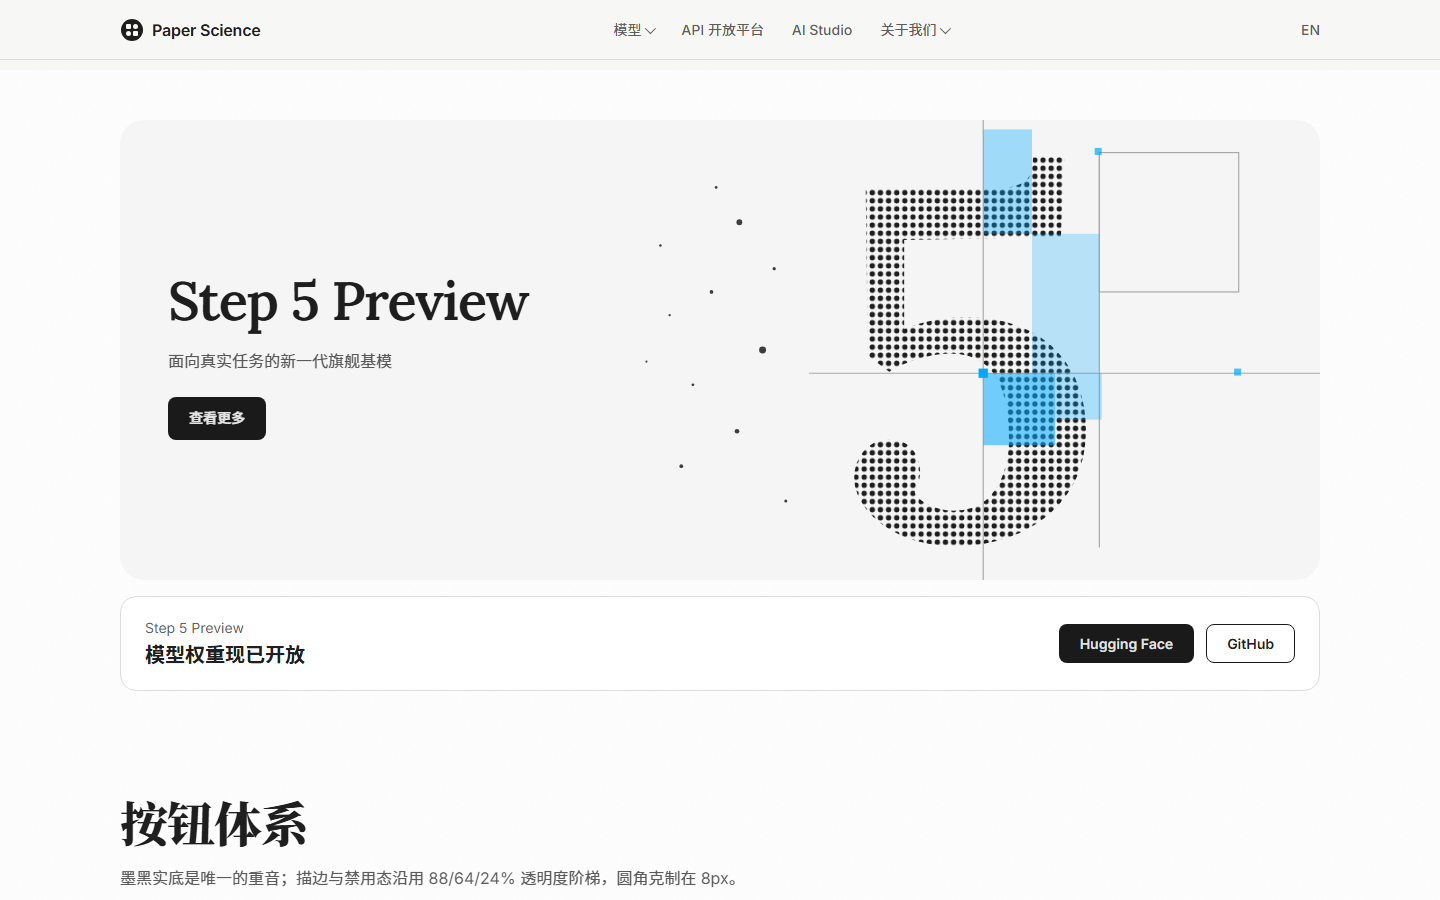
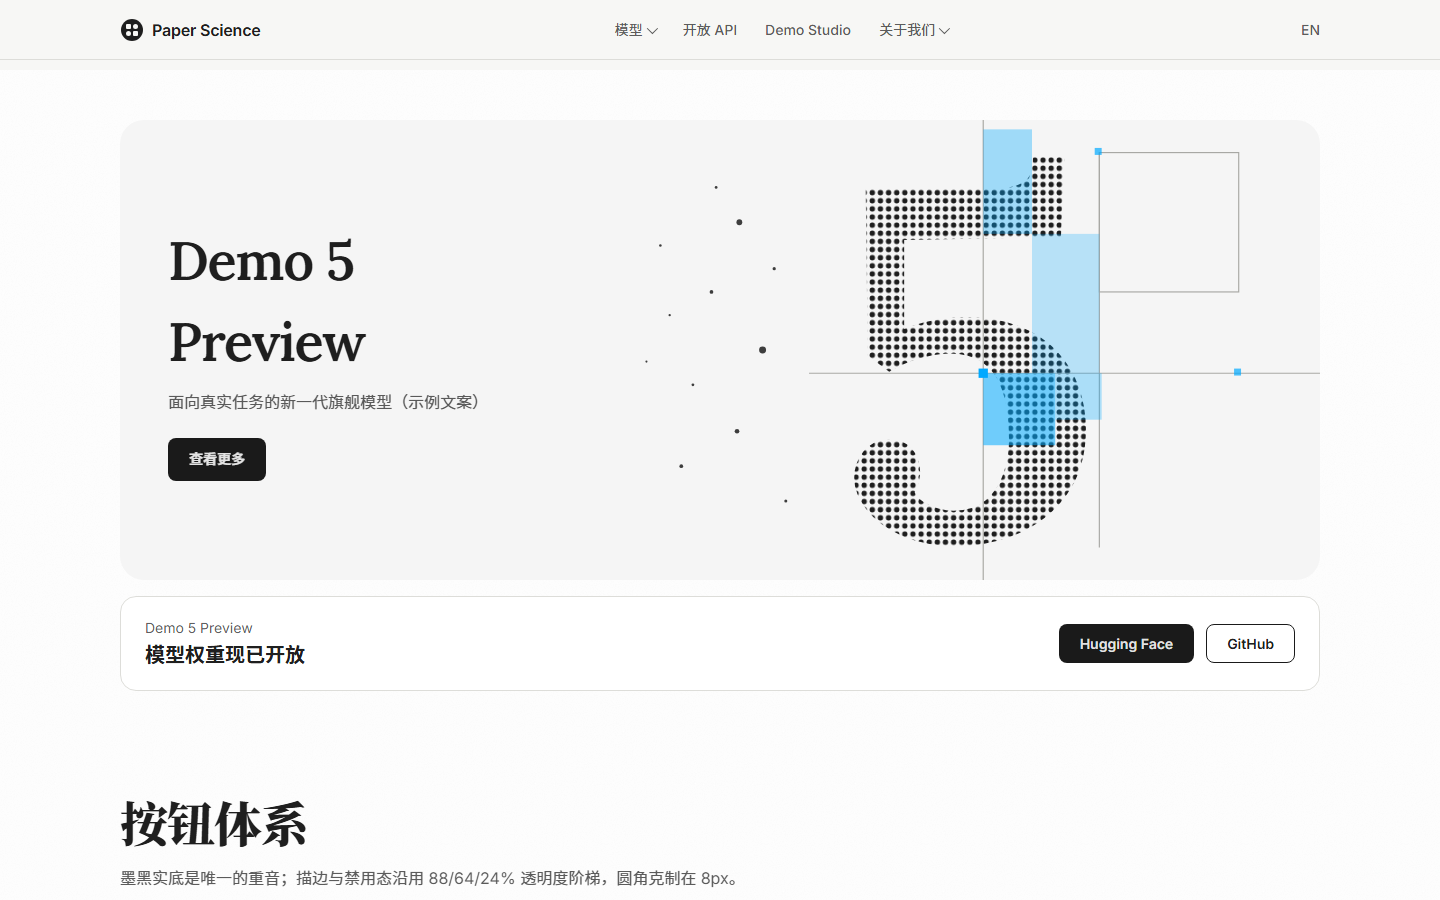
docs: 更新Paper-Science-Editorial模板合规内容与测试数据替换
更新了模板文档与代码中的源站真实产品名、备案号等敏感信息，统一替换为Demo前缀测试数据
补充了合规说明文档，明确要求所有产出不得包含源站真实资质与品牌信息
同时更新了截图资源，确保与合规要求一致

diff --git a/templates/Paper-Science-Editorial/Paper-Science-Editorial.html b/templates/Paper-Science-Editorial/Paper-Science-Editorial.html
@@ -383,8 +383,8 @@ footer::after{bottom:0;left:0;-webkit-mask-image:radial-gradient(at 0% 100%,#000
     </a>
     <div class="nav-links">
       <a href="#flagship">模型 <i class="caret"></i></a>
-      <a href="#cards">API 开放平台</a>
-      <a href="#forms">AI Studio</a>
+      <a href="#cards">开放 API</a>
+      <a href="#forms">Demo Studio</a>
       <a href="#type">关于我们 <i class="caret"></i></a>
     </div>
     <a class="nav-lang" href="#">EN</a>
@@ -520,13 +520,13 @@ footer::after{bottom:0;left:0;-webkit-mask-image:radial-gradient(at 0% 100%,#000
       <div class="marquee-frame">
         <i class="handle tl"></i><i class="handle tr"></i><i class="handle bl"></i><i class="handle br"></i>
       </div>
-      <div class="note n1"><span class="en">From Human Insight</span><span class="en">To Natural Laws</span><span class="zh">从人类洞见，到自然规律</span></div>
-      <div class="note n2"><span class="en">Perception Extended</span><span class="en">Beyond Visible Limits</span><span class="zh">突破感知边界，看见更广世界</span></div>
-      <div class="note n3"><span class="en">Connections Spark</span><span class="en">Worlds Of Possibility</span><span class="zh">连接迸发，万千可能</span></div>
+      <div class="note n1"><span class="en">Ink Records</span><span class="en">What Eyes Miss</span><span class="zh">墨迹记下目光所漏</span></div>
+      <div class="note n2"><span class="en">Signals Cross</span><span class="en">The Paper Field</span><span class="zh">信号穿过纸面田野</span></div>
+      <div class="note n3"><span class="en">Margins Hold</span><span class="en">The Quiet Proof</span><span class="zh">页边藏着安静的证明</span></div>
     </div>
-    <h1 class="hero-title">Scale up<br>for <span class="blue">everyone</span></h1>
-    <p class="hero-sub">智能阶跃，十倍每个人的可能</p>
-    <div class="note hero-aside"><span class="en">Order Emerges</span><span class="en">From Complexity</span><span class="zh">秩序，涌现于混沌之中</span></div>
+    <h1 class="hero-title">From paper<br>to <span class="blue">possibility</span></h1>
+    <p class="hero-sub">纸面科学，让秩序涌现（示例文案）</p>
+    <div class="note hero-aside"><span class="en">Order From</span><span class="en">The Piled Pages</span><span class="zh">秩序，来自叠起的纸页</span></div>
     </div>
   </div>
 </header>
@@ -535,8 +535,8 @@ footer::after{bottom:0;left:0;-webkit-mask-image:radial-gradient(at 0% 100%,#000
   <div class="wrap">
     <div class="feature-card reveal">
       <div class="feature-copy">
-        <h2>Step 5 Preview</h2>
-        <p>面向真实任务的新一代旗舰基模</p>
+        <h2>Demo 5 Preview</h2>
+        <p>面向真实任务的新一代旗舰模型（示例文案）</p>
         <button class="btn btn-primary">查看更多</button>
       </div>
       <div class="feature-art" aria-hidden="true">
@@ -575,7 +575,7 @@ footer::after{bottom:0;left:0;-webkit-mask-image:radial-gradient(at 0% 100%,#000
     </div>
     <div class="weights-bar reveal">
       <div>
-        <div class="label">Step 5 Preview</div>
+        <div class="label">Demo 5 Preview</div>
         <div class="statement">模型权重现已开放</div>
       </div>
       <div class="btn-row">
@@ -618,14 +618,14 @@ footer::after{bottom:0;left:0;-webkit-mask-image:radial-gradient(at 0% 100%,#000
 <section id="cards">
   <div class="wrap">
     <div class="sec-head reveal">
-      <h2>探索智能的更多可能</h2>
-      <p>从前沿模型，到语音与图像，我们持续推进不同方向的模型能力。</p>
+      <h2>探索组件的更多可能</h2>
+      <p>从按钮到卡片，本库持续补充不同方向的组件示例。</p>
     </div>
     <div class="demo-grid">
       <article class="model-card reveal">
         <div>
-          <div class="display">Step 3.7 Flash</div>
-          <p>高速推理与工具调用，为真实工作流而生。</p>
+          <div class="display">Demo 3.7 Flash</div>
+          <p>高速推理与工具调用的示例模型描述。</p>
         </div>
         <div class="tag-row">
           <span class="badge badge-black">Flash</span>
@@ -635,8 +635,8 @@ footer::after{bottom:0;left:0;-webkit-mask-image:radial-gradient(at 0% 100%,#000
       </article>
       <article class="model-card alt reveal">
         <div>
-          <div class="display">StepAudio 3</div>
-          <p>端到端语音交互，理解语气与停顿。</p>
+          <div class="display">DemoAudio 3</div>
+          <p>端到端语音交互的示例模型描述。</p>
         </div>
         <div class="sound-bars" aria-hidden="true"><span></span><span></span><span></span><span></span><span></span></div>
       </article>
@@ -680,7 +680,7 @@ footer::after{bottom:0;left:0;-webkit-mask-image:radial-gradient(at 0% 100%,#000
   -H <span class="c-str">"Content-Type: application/json"</span> \
   -H <span class="c-str">"Authorization: Bearer $API_KEY"</span> \
   -d <span class="c-str">'{
-    <span class="c-par">"model"</span>: <span class="c-str">"step-3.7-flash"</span>,
+    <span class="c-par">"model"</span>: <span class="c-str">"demo-3.7-flash"</span>,
     <span class="c-par">"messages"</span>: [
       { <span class="c-par">"role"</span>: <span class="c-str">"user"</span>,
         <span class="c-par">"content"</span>: <span class="c-str">"你好"</span> }
@@ -703,11 +703,11 @@ footer::after{bottom:0;left:0;-webkit-mask-image:radial-gradient(at 0% 100%,#000
         <span class="panel-label">输入框 · 默认 / 聚焦 / 禁用</span>
         <div>
           <label class="field-label" for="in1">模型名称</label>
-          <input class="input" id="in1" placeholder="step-3.7-flash">
+          <input class="input" id="in1" placeholder="demo-3.7-flash">
         </div>
         <div>
           <label class="field-label" for="in2">聚焦态</label>
-          <input class="input is-focus" id="in2" value="step-5-preview">
+          <input class="input is-focus" id="in2" value="demo-5-preview">
         </div>
         <div>
           <label class="field-label" for="in3">禁用态</label>
@@ -728,8 +728,8 @@ footer::after{bottom:0;left:0;-webkit-mask-image:radial-gradient(at 0% 100%,#000
       </div>
       <div class="panel white reveal">
         <span class="panel-label">双语旁注 · 英文行删除线</span>
-        <div class="note"><span class="en">Perception Extended</span><span class="en">Beyond Visible Limits</span><span class="zh">突破感知边界，看见更广世界</span></div>
-        <div class="note"><span class="en">Order Emerges</span><span class="en">From Complexity</span><span class="zh">秩序，涌现于混沌之中</span></div>
+        <div class="note"><span class="en">Signals Cross</span><span class="en">The Paper Field</span><span class="zh">信号穿过纸面田野</span></div>
+        <div class="note"><span class="en">Order From</span><span class="en">The Piled Pages</span><span class="zh">秩序，来自叠起的纸页</span></div>
       </div>
     </div>
   </div>
@@ -742,10 +742,10 @@ footer::after{bottom:0;left:0;-webkit-mask-image:radial-gradient(at 0% 100%,#000
       <p>衬线承担展示与旁注，无衬线承担界面，等宽承担代码；负字距统一约 -0.02em。</p>
     </div>
     <div class="panel white reveal">
-      <div class="type-row"><span class="spec">56/66 · 700</span><span class="sample-serif" style="font-size:56px;line-height:66px;font-weight:700;letter-spacing:-1.12px">Scale up for everyone</span></div>
-      <div class="type-row"><span class="spec">48/67 · 600</span><span class="sample-serif" style="font-size:48px;line-height:67px;font-weight:600;letter-spacing:-.96px">探索智能的更多可能</span></div>
+      <div class="type-row"><span class="spec">56/66 · 700</span><span class="sample-serif" style="font-size:56px;line-height:66px;font-weight:700;letter-spacing:-1.12px">From paper to possibility</span></div>
+      <div class="type-row"><span class="spec">48/67 · 600</span><span class="sample-serif" style="font-size:48px;line-height:67px;font-weight:600;letter-spacing:-.96px">探索组件的更多可能</span></div>
       <div class="type-row"><span class="spec">24/30 · 600</span><span style="font-size:24px;line-height:30px;font-weight:600">模型权重现已开放</span></div>
-      <div class="type-row"><span class="spec">16/24 · 400</span><span style="font-size:16px">从前沿模型，到语音与图像，我们持续推进不同方向的模型能力。</span></div>
+      <div class="type-row"><span class="spec">16/24 · 400</span><span style="font-size:16px">从按钮到卡片，本库持续补充不同方向的组件示例。</span></div>
       <div class="type-row"><span class="spec">13/17 · mono</span><span style="font-family:var(--font-mono);font-size:13px">curl -H "Authorization: Bearer $API_KEY"</span></div>
     </div>
   </div>
@@ -753,8 +753,8 @@ footer::after{bottom:0;left:0;-webkit-mask-image:radial-gradient(at 0% 100%,#000
 
 <div class="marquee-band" aria-hidden="true">
   <div class="marquee-track">
-    <span>Step 5 Preview</span><span>Step 3.7 Flash</span><span>Step 3.5 Flash</span><span>StepAudio 3</span><span>Realtime</span><span>StepAudio 3 TTS</span><span>StepAudio 3 Gen</span><span>StepAudio 3 Music</span><span>StepAudio 3 ASR</span>
-    <span>Step 5 Preview</span><span>Step 3.7 Flash</span><span>Step 3.5 Flash</span><span>StepAudio 3</span><span>Realtime</span><span>StepAudio 3 TTS</span><span>StepAudio 3 Gen</span><span>StepAudio 3 Music</span><span>StepAudio 3 ASR</span>
+    <span>Demo 5 Preview</span><span>Demo 3.7 Flash</span><span>Demo 3.5 Flash</span><span>DemoAudio 3</span><span>Realtime</span><span>DemoAudio 3 TTS</span><span>DemoAudio 3 Gen</span><span>DemoAudio 3 Music</span><span>DemoAudio 3 ASR</span>
+    <span>Demo 5 Preview</span><span>Demo 3.7 Flash</span><span>Demo 3.5 Flash</span><span>DemoAudio 3</span><span>Realtime</span><span>DemoAudio 3 TTS</span><span>DemoAudio 3 Gen</span><span>DemoAudio 3 Music</span><span>DemoAudio 3 ASR</span>
   </div>
 </div>
 
@@ -766,25 +766,25 @@ footer::after{bottom:0;left:0;-webkit-mask-image:radial-gradient(at 0% 100%,#000
           <svg width="24" height="24" viewBox="0 0 24 24" aria-hidden="true"><circle cx="12" cy="12" r="11" fill="#fff"/><g fill="#000"><rect x="6" y="6" width="5" height="5" rx="1"/><rect x="13" y="6" width="5" height="5" rx="2.5"/><rect x="6" y="13" width="5" height="5" rx="2.5"/><rect x="13" y="13" width="5" height="5" rx="1"/></g></svg>
           Paper Science
         </a>
-        <p>Scale up for everyone</p>
+        <p>From paper to possibility</p>
         <button class="btn btn-on-dark btn-sm">平台服务支持</button>
       </div>
       <nav class="foot-nav" aria-label="页脚导航">
         <div>
           <h4>模型</h4>
           <div class="group-label">旗舰基模</div>
-          <a href="#flagship">Step 5 Preview</a>
-          <a href="#cards">Step 3.7 Flash</a>
-          <a href="#cards">Step 3.5 Flash</a>
+          <a href="#flagship">Demo 5 Preview</a>
+          <a href="#cards">Demo 3.7 Flash</a>
+          <a href="#cards">Demo 3.5 Flash</a>
           <div class="group-label">语音交互</div>
-          <a href="#cards">StepAudio 3</a>
+          <a href="#cards">DemoAudio 3</a>
           <a href="#cards">Realtime</a>
         </div>
         <div>
           <h4>产品</h4>
-          <a href="#cards">Step Code</a>
-          <a href="#forms">AI Studio</a>
-          <a href="#flagship">API 开放平台</a>
+          <a href="#cards">Demo Code</a>
+          <a href="#forms">Demo Studio</a>
+          <a href="#flagship">开放 API</a>
         </div>
         <div>
           <h4>开发者资源</h4>
@@ -801,7 +801,7 @@ footer::after{bottom:0;left:0;-webkit-mask-image:radial-gradient(at 0% 100%,#000
     </div>
     <div class="foot-legal">
       <span>模型名称：纸面科学大模型</span>
-      <span>沪公网安备 31010402333581 号</span>
+      <span>测试备案号 00000000000000</span>
       <span>Copyright © 2026 Paper Science Editorial</span>
       <button class="theme-toggle" id="themeToggle" type="button">切换深色模式</button>
     </div>

diff --git a/.qoder/skills/web2template/SKILL.md b/.qoder/skills/web2template/SKILL.md
@@ -168,6 +168,7 @@ python "{SKILL_DIR}/scripts/extract_and_capture.py" --file "./path/to/template.h
    - 组件样式：按实际页面中出现的组件类型描述
    - 大胆要素：提炼 3-8 个使此设计独特的签名技巧
    - 所有 CSS 代码示例必须可执行
+5. **合规替换（强制）**：不得把源站的备案号/ICP/公网安备等资质编号、真实产品与模型名称、品牌标语与原文营销文案复刻进产出文档；统一替换为测试数据或重写——备案类编号用 `测试备案号 00000000000000`，产品/模型名用 `Demo` 前缀演示名（如 `Demo 5 Preview`），标语与旁注自行重写为原创示例文案，并在文档中注明"示例文案与名称均为测试数据"
 
 **输出文件**：
 
@@ -207,6 +208,7 @@ templates/{Style-Name}/
 4. **图片资源**：一律使用 `https://trae-api-cn.mchost.guru/api/ide/v1/text_to_image?prompt={prompt}&image_size={size}` 链接（URL-encode prompt），禁止占位图。**关键陷阱**：该接口对新 prompt 首次请求返回"生成中"占位图（约 176KB 正方形 JPEG），真实图片需等待异步生成完成。优先复用项目中已就绪的 URL（grep `text_to_image` 查 index.html 与既有模板）；确需新图时，用 JPEG SOF 标记解析宽高（横向比例 = 就绪）轮询确认，未就绪则回退到已就绪图片并以不同 `background-position` 裁切区分多处使用
 5. **动效克制**：入场动画用 IntersectionObserver 触发（2-8px 位移级别），必须实现 `prefers-reduced-motion` 降级
 6. **响应式**：至少覆盖 1024px / 768px 两档断点，规则从风格文档"响应式策略"章节落地
+7. **合规替换**：组件库全部文案（导航、Hero、卡片、跑马灯、代码示例中的模型字符串、页脚法律信息行等）一律使用测试数据：不得出现源站备案号/公网安备编号、真实产品与模型名称、品牌标语；页脚资质行统一写 `测试备案号 00000000000000`
 
 ---
 
@@ -233,7 +235,7 @@ templates/{Style-Name}/
 2. **必须收集 JS 错误**：`page.on("pageerror", ...)` 在 `goto` 之前注册，结束时打印——空数组才算通过
 3. 强制 `.reveal` 元素可见后截图三视图，保存为 `assets/screenshots/{Style-Name}-01/02/03.png`（阶段 7 注册的路径依赖此产物）
 4. **生成 WebP 变体**：每张 PNG 同名转换为 `assets/screenshots/webp/{同名}.webp`（1440×900 RGB，quality≈78）。index.html 画廊优先加载 WebP；缺变体会退化画质加载甚至裂图
-5. 用 Read 工具逐张检查截图：图片是否为占位图、组件是否溢出/重叠、文字对比度、深色模式（若实现）
+5. 用 Read 工具逐张检查截图：图片是否为占位图、组件是否溢出/重叠、文字对比度、深色模式（若实现），并合规复查：截图与 HTML 中不得残留源站备案号、真实产品/模型名、品牌标语（用 grep 复核关键词零命中）
 6. 发现问题 → 修复 HTML 后重跑脚本，直至截图全部合格
 
 **清理**（验证通过后执行）：
@@ -327,3 +329,4 @@ Agent 执行：
 - 若页面需要登录或有反爬机制，脚本可能无法正常获取内容，应提示用户改用本地 HTML 文件。
 - **Windows 环境**：`curl` 是 PowerShell 的 `Invoke-WebRequest` 别名，参数不兼容，须显式使用 `curl.exe`；含 `&`、引号嵌套的 URL 或长脚本不要内联 `python -c`，写成临时 `.py` 文件再执行。
 - 阶段 6-8 产出的模板必须与项目既有模板（`templates/` 下 30+ 套）保持同样的工程约定：单文件、零构建、`:root` Token、`{Style-Name}.html` + `{Style-Name}.md` 成对出现。
+- **合规底线**：任何产出（风格文档、组件库、画廊截图、注册描述）不得包含源站 ICP/公网安备编号、真实产品与模型名称、品牌 slogan；统一换测试数据（备案 `测试备案号 00000000000000`、名称 `Demo` 前缀、文案重写）。来源 URL 仅作为风格文档的来源注记保留，不作为文案复刻。

diff --git a/.trae/skills/web2template/SKILL.md b/.trae/skills/web2template/SKILL.md
@@ -168,6 +168,7 @@ python "{SKILL_DIR}/scripts/extract_and_capture.py" --file "./path/to/template.h
    - 组件样式：按实际页面中出现的组件类型描述
    - 大胆要素：提炼 3-8 个使此设计独特的签名技巧
    - 所有 CSS 代码示例必须可执行
+5. **合规替换（强制）**：不得把源站的备案号/ICP/公网安备等资质编号、真实产品与模型名称、品牌标语与原文营销文案复刻进产出文档；统一替换为测试数据或重写——备案类编号用 `测试备案号 00000000000000`，产品/模型名用 `Demo` 前缀演示名（如 `Demo 5 Preview`），标语与旁注自行重写为原创示例文案，并在文档中注明"示例文案与名称均为测试数据"
 
 **输出文件**：
 
@@ -207,6 +208,7 @@ templates/{Style-Name}/
 4. **图片资源**：一律使用 `https://trae-api-cn.mchost.guru/api/ide/v1/text_to_image?prompt={prompt}&image_size={size}` 链接（URL-encode prompt），禁止占位图。**关键陷阱**：该接口对新 prompt 首次请求返回"生成中"占位图（约 176KB 正方形 JPEG），真实图片需等待异步生成完成。优先复用项目中已就绪的 URL（grep `text_to_image` 查 index.html 与既有模板）；确需新图时，用 JPEG SOF 标记解析宽高（横向比例 = 就绪）轮询确认，未就绪则回退到已就绪图片并以不同 `background-position` 裁切区分多处使用
 5. **动效克制**：入场动画用 IntersectionObserver 触发（2-8px 位移级别），必须实现 `prefers-reduced-motion` 降级
 6. **响应式**：至少覆盖 1024px / 768px 两档断点，规则从风格文档"响应式策略"章节落地
+7. **合规替换**：组件库全部文案（导航、Hero、卡片、跑马灯、代码示例中的模型字符串、页脚法律信息行等）一律使用测试数据：不得出现源站备案号/公网安备编号、真实产品与模型名称、品牌标语；页脚资质行统一写 `测试备案号 00000000000000`
 
 ---
 
@@ -232,7 +234,7 @@ templates/{Style-Name}/
 1. 编写临时 Playwright 验证脚本（放于 `{output}/` 下）：起本地 `http.server`，以 1440×900 视口加载新模板，等待字体与图片就绪
 2. **必须收集 JS 错误**：`page.on("pageerror", ...)` 在 `goto` 之前注册，结束时打印——空数组才算通过
 3. 强制 `.reveal` 元素可见后截图三视图，保存为 `assets/screenshots/{Style-Name}-01/02/03.png`（阶段 7 注册的路径依赖此产物）
-4. 用 Read 工具逐张检查截图：图片是否为占位图、组件是否溢出/重叠、文字对比度、深色模式（若实现）
+4. 用 Read 工具逐张检查截图：图片是否为占位图、组件是否溢出/重叠、文字对比度、深色模式（若实现），并合规复查：截图与 HTML 中不得残留源站备案号、真实产品/模型名、品牌标语（用 grep 复核关键词零命中）
 5. 发现问题 → 修复 HTML 后重跑脚本，直至截图全部合格
 
 **清理**（验证通过后执行）：
@@ -327,3 +329,4 @@ d:\trae_projects\beautiful_web_template\.trae\skills\web2template\
 - 若页面需要登录或有反爬机制，脚本可能无法正常获取内容，应提示用户改用本地 HTML 文件。
 - **Windows PowerShell 环境**：`curl` 是 `Invoke-WebRequest` 别名，参数不兼容，须显式使用 `curl.exe`；含 `&`、引号嵌套的 URL 或长脚本不要内联 `python -c`，写成临时 `.py` 文件再执行。
 - 阶段 6-8 产出的模板必须与项目既有模板（`templates/` 下 30+ 套）保持同样的工程约定：单文件、零构建、`:root` Token、`{Style-Name}.html` + `{Style-Name}.md` 成对出现。
+- **合规底线**：任何产出（风格文档、组件库、画廊截图、注册描述）不得包含源站 ICP/公网安备编号、真实产品与模型名称、品牌 slogan；统一换测试数据（备案 `测试备案号 00000000000000`、名称 `Demo` 前缀、文案重写）。来源 URL 仅作为风格文档的来源注记保留，不作为文案复刻。
